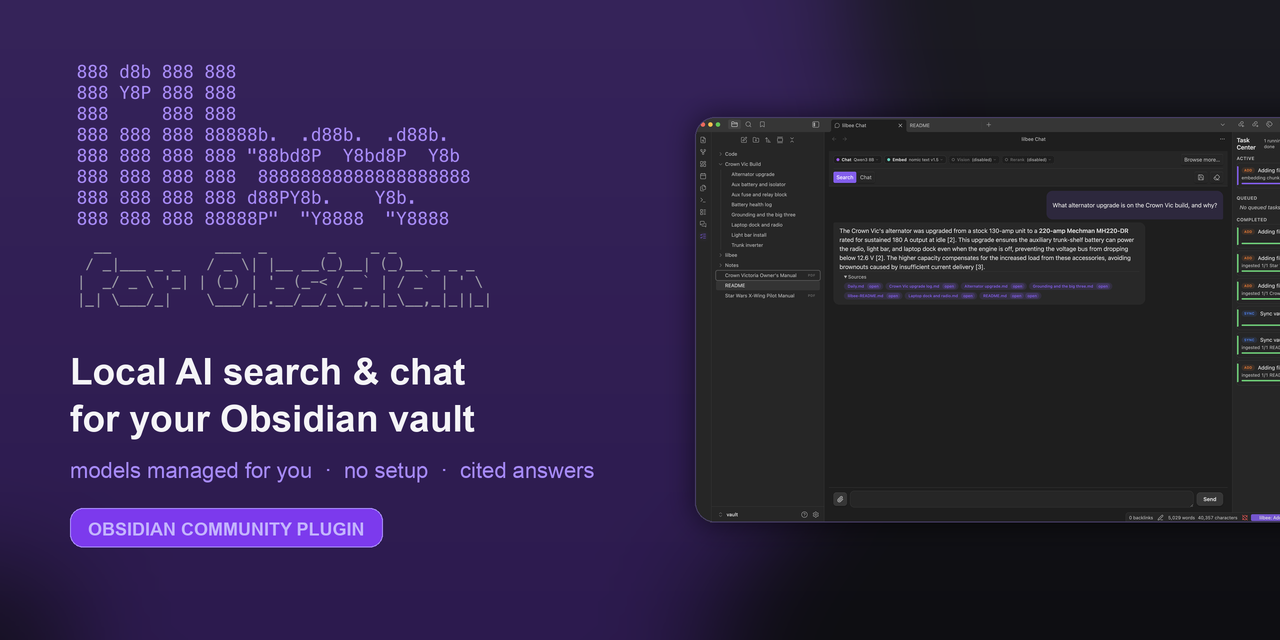
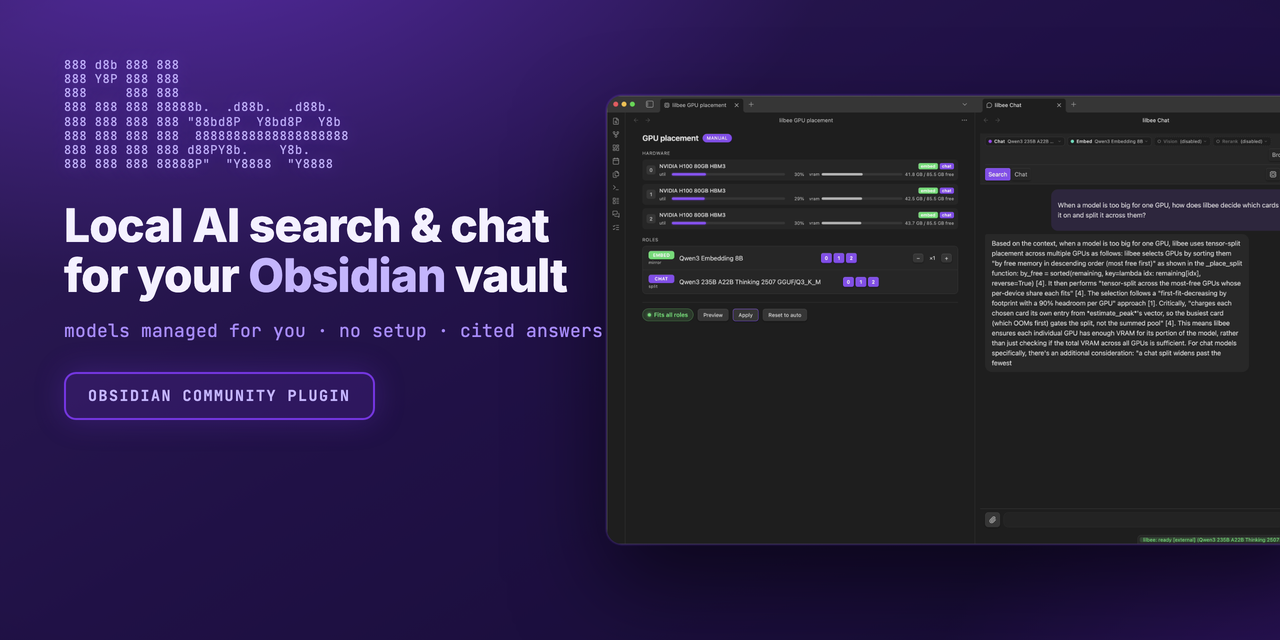
Fold in the multi-GPU site section from the standalone site PR, pointed at the shipped reels

diff --git a/site/index.html b/site/index.html
@@ -132,6 +132,7 @@
           <button type="button" class="tutorialtab" role="tab" id="tutorial-tab-catalog"   aria-controls="tutorial-pane-catalog"   aria-selected="false" tabindex="-1">catalog</button>
           <button type="button" class="tutorialtab" role="tab" id="tutorial-tab-download"  aria-controls="tutorial-pane-download"  aria-selected="false" tabindex="-1">download a model</button>
           <button type="button" class="tutorialtab" role="tab" id="tutorial-tab-models"    aria-controls="tutorial-pane-models"    aria-selected="false" tabindex="-1">model rail</button>
+          <button type="button" class="tutorialtab" role="tab" id="tutorial-tab-placement" aria-controls="tutorial-pane-placement" aria-selected="false" tabindex="-1">multi-GPU</button>
           <button type="button" class="tutorialtab" role="tab" id="tutorial-tab-ollama"    aria-controls="tutorial-pane-ollama"    aria-selected="false" tabindex="-1">Ollama</button>
           <button type="button" class="tutorialtab" role="tab" id="tutorial-tab-lmstudio"  aria-controls="tutorial-pane-lmstudio"  aria-selected="false" tabindex="-1">LM Studio</button>
           <button type="button" class="tutorialtab" role="tab" id="tutorial-tab-gemini"    aria-controls="tutorial-pane-gemini"    aria-selected="false" tabindex="-1">cloud</button>
@@ -223,6 +224,13 @@
             <video src="https://raw.githubusercontent.com/tobocop2/obsidian-lilbee/gh-pages/demos/models.webm" controls loop muted autoplay playsinline preload="metadata"></video>
           </div>
           <p class="tutorial-caption">Four roles on one rail: chat writes the answers, embedding indexes your notes, vision reads scanned PDFs, reranking sharpens the results. Hover each to see what it does, then flip between Search and Chat mode.</p>
+        </div>
+
+        <div class="tutorialpane" role="tabpanel" id="tutorial-pane-placement" aria-labelledby="tutorial-tab-placement" hidden>
+          <div class="tutorial-clip">
+            <video src="https://raw.githubusercontent.com/tobocop2/obsidian-lilbee/gh-pages/demos/bigmodel.webm" controls loop muted autoplay playsinline preload="metadata"></video>
+          </div>
+          <p class="tutorial-caption">On a box with three A100s, the placement view shows each card and what's running on it. A 235-billion-parameter chat model splits across all three, with the embedder mirrored onto every card. Ingest the codebase, watch each card's load move live, then ask a grounded question and get a cited answer streamed from the 235B, opening the exact source it came from.</p>
         </div>
 
         <div class="tutorialpane" role="tabpanel" id="tutorial-pane-firststart" aria-labelledby="tutorial-tab-firststart" hidden>
@@ -319,6 +327,22 @@
         <div class="cap">
           <h3>writes a wiki of your knowledge <span class="exp">experimental</span></h3>
           <p>lilbee can draft linked wiki pages from your library; they land in your vault as ordinary notes and show up in the graph view, alongside your own.</p>
+        </div>
+      </div>
+    </section>
+
+    <section>
+      <div class="label">across your GPUs</div>
+      <div class="gpu">
+        <div class="gpu-copy">
+          <h3>one box, many GPUs, no flags</h3>
+          <p>Got more than one graphics card? lilbee finds them all. The placement view draws every GPU and what's running on it, chat, embedding, vision, reranking, and lets you spread a model across cards or pin a worker to one with a click.</p>
+          <p>Spread one model's layers across several cards, or pin embedding, vision and reranking workers to the GPUs you choose, then apply and the fleet rebuilds to match. The usage bars update live, so you can see each card's load in real time. On a single machine it stays simple: one card, everything together, nothing to configure.</p>
+        </div>
+        <div class="gpu-clip">
+          <div class="tutorial-clip">
+            <video src="https://raw.githubusercontent.com/tobocop2/obsidian-lilbee/gh-pages/demos/gpu-placement-manual.webm" controls loop muted autoplay playsinline preload="metadata"></video>
+          </div>
         </div>
       </div>
     </section>

diff --git a/site/style.css b/site/style.css
@@ -512,6 +512,19 @@ h1.sr {
 .cap p { font-size: 14px; color: var(--ink-2); line-height: 1.65; }
 .cap p code { background: var(--bg); border: 1px solid var(--rule); padding: 0 0.35rem; border-radius: 3px; color: var(--ink); }
 
+/* multi-GPU section -------------------------------------------------- */
+.gpu { display: grid; grid-template-columns: 1fr 1.1fr; gap: 1.6rem; align-items: center; }
+.gpu-copy h3 {
+  font-size: 16px;
+  font-weight: 700;
+  color: var(--accent);
+  letter-spacing: 0.01em;
+  margin-bottom: 0.6rem;
+}
+.gpu-copy p { font-size: 14px; color: var(--ink-2); line-height: 1.65; }
+.gpu-copy p + p { margin-top: 0.7rem; }
+.gpu-clip .tutorial-clip { margin: 0; }
+
 /* go-deeper links ---------------------------------------------------- */
 .links { display: grid; grid-template-columns: 1fr 1fr; gap: 4px 2.5rem; font-size: 14px; }
 .links a {
@@ -582,7 +595,7 @@ footer .meta { text-align: right; font-size: 12px; }
 @media (max-width: 720px) {
   body { padding: 1.4rem 1.1rem 3rem; font-size: 14.5px; }
   .wordmark, .wordmark-sub { font-size: 9px; }
-  .caps, .links, .shape { grid-template-columns: 1fr; }
+  .caps, .links, .shape, .gpu { grid-template-columns: 1fr; }
   .tagline { font-size: 18px; }
   .tutorialtabs .tutorialtab { padding: 0.45rem 0.6rem; font-size: 12px; }
 }